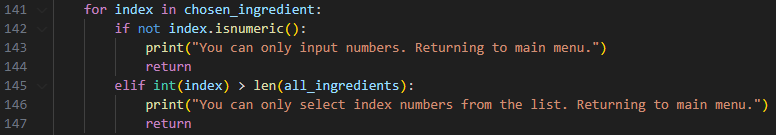
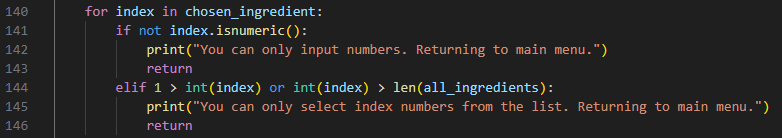
updated search_by_ingredient function

diff --git a/Exercise1.7/Main_task/recipe_app.py b/Exercise1.7/Main_task/recipe_app.py
@@ -80,7 +80,6 @@ def create_recipe():
         ingredients.append(ingredient_to_add.lower())
 
         temporary_ingredients = ", ".join(ingredients)
-        print(temporary_ingredients)
         if i < int(number_of_ingredients) - 2:
             print("Remaining characters: " + str(255 - len(temporary_ingredients) - 2))
         elif i < int(number_of_ingredients) - 1:
@@ -142,7 +141,7 @@ def search_by_ingredients():
         if not index.isnumeric():
             print("You can only input numbers. Returning to main menu.")
             return
-        elif int(index) > len(all_ingredients):
+        elif 1 > int(index) or int(index) > len(all_ingredients):
             print("You can only select index numbers from the list. Returning to main menu.")
             return
     
@@ -192,7 +191,7 @@ def edit_recipe():
     
     print("\n" + "-" * 20)
 
-    chosen_attribute = input("Enter the index of the recipe information you would like" + 
+    chosen_attribute = input("Enter the index of the recipe information you would like " + 
                              "to update: ")
     if not chosen_attribute.isnumeric():
         print("You can only enter numbers. Returning to main menu.")
